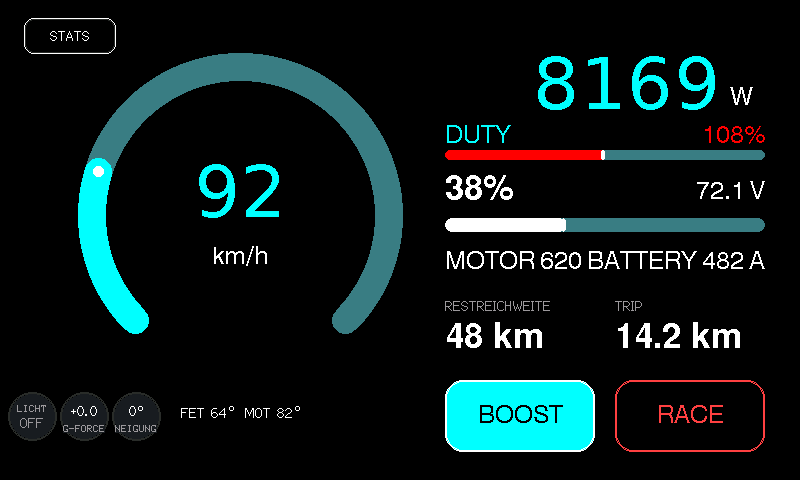
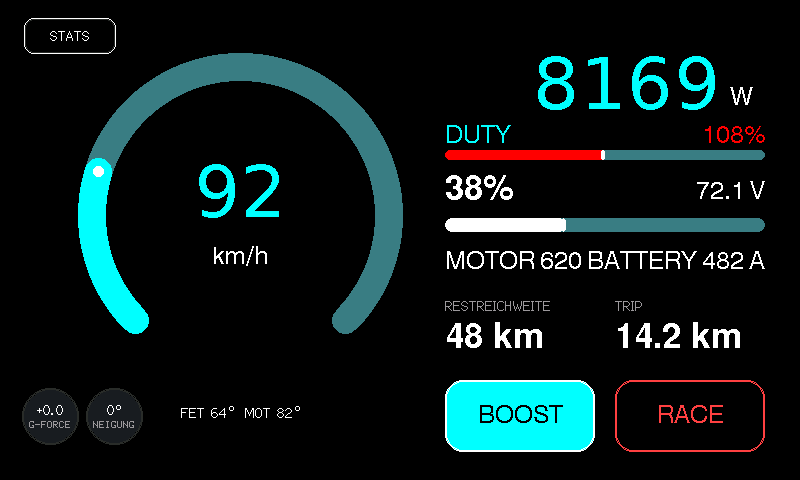
fix(ui): enlarge G-Force and Incline badges to r=28, center text inside circle, hide light button from dashboard

Changed region(s): [[0.0, 0.8125, 0.2188, 0.9375]]

diff --git a/src/dash_renderer.cpp b/src/dash_renderer.cpp
@@ -324,7 +324,7 @@ static void drawHeroDigitText(LovyanGFX *canvas, const char *str, int x, int y, 
     canvas->drawString(str, x + 1, y + 1);
 }
 
-static void drawLightSwitchBadge(LovyanGFX *canvas, bool enabled, int cx, int cy, int r) {
+[[maybe_unused]] static void drawLightSwitchBadge(LovyanGFX *canvas, bool enabled, int cx, int cy, int r) {
     canvas->fillCircle(cx, cy, r, COLOR_BG);
     uint16_t ringCol = enabled ? COLOR_CYAN : COLOR_BORDER;
     uint16_t bgCol   = enabled ? 0x0A4D : COLOR_SURFACE;
@@ -368,12 +368,12 @@ static void drawGForceBadge(LovyanGFX *canvas, float g_force, int cx, int cy, in
     canvas->setTextColor(textCol, COLOR_SURFACE);
     char gBuf[12];
     snprintf(gBuf, sizeof(gBuf), "%+.1f", g_force);
-    canvas->drawString(gBuf, cx, cy - 5);
+    canvas->drawString(gBuf, cx, cy - 6);
 
     canvas->setFont(&fonts::Font0);
     canvas->setTextSize(1);
     canvas->setTextColor(COLOR_MUTED_GRAY, COLOR_SURFACE);
-    canvas->drawString("G-FORCE", cx, cy + 13);
+    canvas->drawString("G-FORCE", cx, cy + 9);
 }
 
 static void drawInclineBadge(LovyanGFX *canvas, float incline_deg, int cx, int cy, int r) {
@@ -401,18 +401,18 @@ static void drawInclineBadge(LovyanGFX *canvas, float incline_deg, int cx, int c
     }
 
     int valW = canvas->textWidth(valBuf);
-    int totalW = valW + 7;
+    int totalW = valW + 6;
     int startX = cx - (totalW / 2);
     canvas->setTextDatum(textdatum_t::middle_left);
     canvas->setTextColor(COLOR_WHITE, COLOR_SURFACE);
-    canvas->drawString(valBuf, startX, cy - 5);
-    canvas->drawCircle(startX + valW + 3, cy - 8, 2, COLOR_WHITE);
+    canvas->drawString(valBuf, startX, cy - 6);
+    canvas->drawCircle(startX + valW + 3, cy - 9, 2, COLOR_WHITE);
 
     canvas->setFont(&fonts::Font0);
     canvas->setTextSize(1);
     canvas->setTextDatum(textdatum_t::middle_center);
     canvas->setTextColor(COLOR_MUTED_GRAY, COLOR_SURFACE);
-    canvas->drawString("NEIGUNG", cx, cy + 13);
+    canvas->drawString("NEIGUNG", cx, cy + 9);
 }
 
 static void drawThermalsWithDegrees(LovyanGFX *canvas, const char *prefix, float fet, float mot, int x, int y, bool centered = false) {
@@ -691,7 +691,7 @@ void DashboardRenderer::renderHyper35kwStyle(const DashTelemetry &telemetry) {
     if (!_hyper_inited || cur_fet != _cache.temp_esc || cur_mot != _cache.temp_motor) {
         _cache.temp_esc = cur_fet;
         _cache.temp_motor = cur_mot;
-        _canvas->fillRect(170, 395, 140, 45, COLOR_BG);
+        _canvas->fillRect(150, 395, 180, 45, COLOR_BG);
         drawThermalsWithDegrees(_canvas, "", telemetry.temp_esc, telemetry.temp_motor, cx, 405, true);
     }
 
@@ -907,23 +907,17 @@ void DashboardRenderer::renderHyper35kwStyle(const DashTelemetry &telemetry) {
         _canvas->drawCenterString(btnLabel, 690, 404, &fonts::Font4);
     }
 
-    // 9. Bottom Left: Light Switch Badge, G-Force Badge, and Incline Badge
-    bool cur_lights = telemetry.lights_enabled;
-    if (!_hyper_inited || cur_lights != _cache.lights_enabled) {
-        _cache.lights_enabled = cur_lights;
-        drawLightSwitchBadge(_canvas, telemetry.lights_enabled, 32, 416, 24);
-    }
-
+    // 9. Bottom Left: G-Force Badge and Incline Badge
     int cur_g10 = (int)roundf(telemetry.g_force * 10.0f);
     if (!_hyper_inited || cur_g10 != _cache.g_force_x10) {
         _cache.g_force_x10 = cur_g10;
-        drawGForceBadge(_canvas, telemetry.g_force, 84, 416, 24);
+        drawGForceBadge(_canvas, telemetry.g_force, 50, 416, 28);
     }
 
     int cur_inc_x10 = (int)roundf(telemetry.incline_deg * 10.0f);
     if (!_hyper_inited || cur_inc_x10 != _cache.incline_deg) {
         _cache.incline_deg = cur_inc_x10;
-        drawInclineBadge(_canvas, telemetry.incline_deg, 136, 416, 24);
+        drawInclineBadge(_canvas, telemetry.incline_deg, 114, 416, 28);
     }
 
     _hyper_inited = true;
@@ -2449,7 +2443,7 @@ void DashboardRenderer::renderRaceTimerScreen(const DashTelemetry &telemetry) {
     drawSplit(340, telemetry.race_split_0_70, telemetry.race_records.best_0_70_sec, active_0_70);
 
     // Bottom-Left G-Force Badge
-    drawGForceBadge(_canvas, telemetry.g_force, 52, 416, 26);
+    drawGForceBadge(_canvas, telemetry.g_force, 50, 416, 28);
 
     // 5. Bestzeiten Popup Modal (if open)
     if (telemetry.race_popup_open) {

diff --git a/src/buttons.cpp b/src/buttons.cpp
@@ -170,9 +170,9 @@ void ButtonHandler::processTouch(uint32_t now) {
                         } else if (_touch_start_y <= 65 && _touch_start_x >= 640) {
                             _pending_action = NAV_SCREEN_DASH; // Top-right [X] returns to Ride Dash
                         }
-                    } else if (_touch_start_y > 390 && _touch_start_x >= 65 && _touch_start_x < 400) {
-                        // Long press on bottom-left status strip (x=65..400) -> Reset Trip Odometer
-                        // (Touches on x < 65 are Light Switch; x >= 400 are action buttons, prevent accidental reset)
+                    } else if (_touch_start_y > 390 && _touch_start_x < 400) {
+                        // Long press on bottom-left status strip -> Reset Trip Odometer
+                        // (Touches on x >= 400 are action buttons [ BOOST ] / [ MODE ], prevent accidental reset)
                         _pending_action = NAV_BTN2_LONG;
                     } else if (_touch_start_y < 80 && _touch_start_x > 620) {
                         // Long press top right -> Open Settings Menu
@@ -339,11 +339,7 @@ void ButtonHandler::processTouch(uint32_t now) {
                         if (_last_tap_x >= 18 && _last_tap_x <= 125 && _last_tap_y >= 12 && _last_tap_y <= 60) {
                             _pending_action = NAV_SCREEN_STATS;
                         }
-                        // 2. Bottom Left Light Switch Badge (Hauptschalter)
-                        else if (_last_tap_x >= 8 && _last_tap_x <= 60 && _last_tap_y >= 385 && _last_tap_y <= 445) {
-                            _pending_action = NAV_LIGHT_TOGGLE;
-                        }
-                        // 3. Action Buttons on Ride Dash (Bottom Right)
+                        // 2. Action Buttons on Ride Dash (Bottom Right)
                         else if (_last_tap_y >= 360 && _last_tap_y <= 465) {
                             if (_last_tap_x >= 430 && _last_tap_x <= 605) {
                                 _pending_action = NAV_BOOST_TOGGLE;
@@ -351,7 +347,7 @@ void ButtonHandler::processTouch(uint32_t now) {
                                 _pending_action = NAV_MODE_CYCLE;
                             }
                         }
-                        // 4. Top Right Badge -> Open Settings Menu
+                        // 3. Top Right Badge -> Open Settings Menu
                         else if (_last_tap_y < 65 && _last_tap_x > 620) {
                             _pending_action = NAV_BTN1_LONG;
                         }

diff --git a/tools/simulator/sim_main.cpp b/tools/simulator/sim_main.cpp
@@ -264,6 +264,7 @@ void testTouchGestures() {
     Buttons.begin();
 
     auto simTouchAction = [](int start_x, int start_y, int end_x, int end_y, uint32_t duration_ms) {
+        Buttons.getNavAction(); // Flush any stale action
         simAdvanceMs(120); // Allow 100ms debounce cooldown from previous gesture
         Display.setSimTouch(true, start_x, start_y);
         Buttons.update(); // Record initial touch-down at t=0
@@ -341,24 +342,25 @@ void testTouchGestures() {
     Display.setSimTouch(false);
     simAdvanceMs(110);
     Buttons.update();
+    Buttons.getNavAction(); // Flush release action
     printf("[PASS] Long Press on [ BOOST ] button did NOT trigger NAV_BTN2_LONG (Accidental Reset Prevented).\n");
 
-    // 7c. Test Tap on Light Switch Badge (x=32, y=416) -> NAV_LIGHT_TOGGLE
+    // 7c. Test Tap on arbitrary bottom-left area -> Must be NAV_NONE (accidental tap prevented)
     NavAction actTapLight = simTouchAction(32, 416, 32, 416, 50);
-    assert(actTapLight == NAV_LIGHT_TOGGLE);
-    printf("[PASS] Tap on Light Switch Badge triggered NAV_LIGHT_TOGGLE (Hauptschalter).\n");
+    assert(actTapLight == NAV_NONE);
+    printf("[PASS] Arbitrary tap on bottom-left area safely ignored (NAV_NONE).\n");
 
-    // 7d. Test Long Press on Light Switch Badge (x=32, y=416) -> Must NOT trigger Trip Reset!
-    Display.setSimTouch(true, 32, 416);
+    // 7d. Test Long Press on bottom-left area (x=50, y=416) -> Triggers Trip Reset (NAV_BTN2_LONG)
+    Display.setSimTouch(true, 50, 416);
     Buttons.update();
     simAdvanceMs(850);
     Buttons.update();
-    NavAction actLongLight = Buttons.getNavAction();
-    assert(actLongLight != NAV_BTN2_LONG);
+    NavAction actLongBottomLeft = Buttons.getNavAction();
+    assert(actLongBottomLeft == NAV_BTN2_LONG);
     Display.setSimTouch(false);
     simAdvanceMs(110);
     Buttons.update();
-    printf("[PASS] Long Press on Light Switch Badge did NOT trigger NAV_BTN2_LONG (Accidental Reset Prevented).\n");
+    printf("[PASS] Long Press on bottom-left strip triggered NAV_BTN2_LONG (Trip Reset).\n");
 
     // 8. Test Edit Mode: Left side decrement, Right side increment
     Buttons.setEditMode(true);

diff --git a/tools/simulator/sim_backend.cpp b/tools/simulator/sim_backend.cpp
@@ -1229,13 +1229,6 @@ void sim_touch_event(int is_down, int x, int y) {
             }
         }
     } else if (is_new_down && g_telemetry.screen == SCREEN_RIDE_DASH) {
-        if (x >= 8 && x <= 60 && y >= 385 && y <= 445) {
-            // Tapping Bottom Left Light Switch Badge (Hauptschalter)
-            g_telemetry.lights_enabled = !g_telemetry.lights_enabled;
-            Renderer.markScreenDirty();
-            Display.setSimTouch(false, -1, -1);
-            return;
-        }
         if (x >= 18 && x <= 125 && y >= 12 && y <= 60) {
             // Tapping [ STATS ] button takes the rider directly to SCREEN_RT_GRAPHS
             g_telemetry.screen = SCREEN_RT_GRAPHS;
